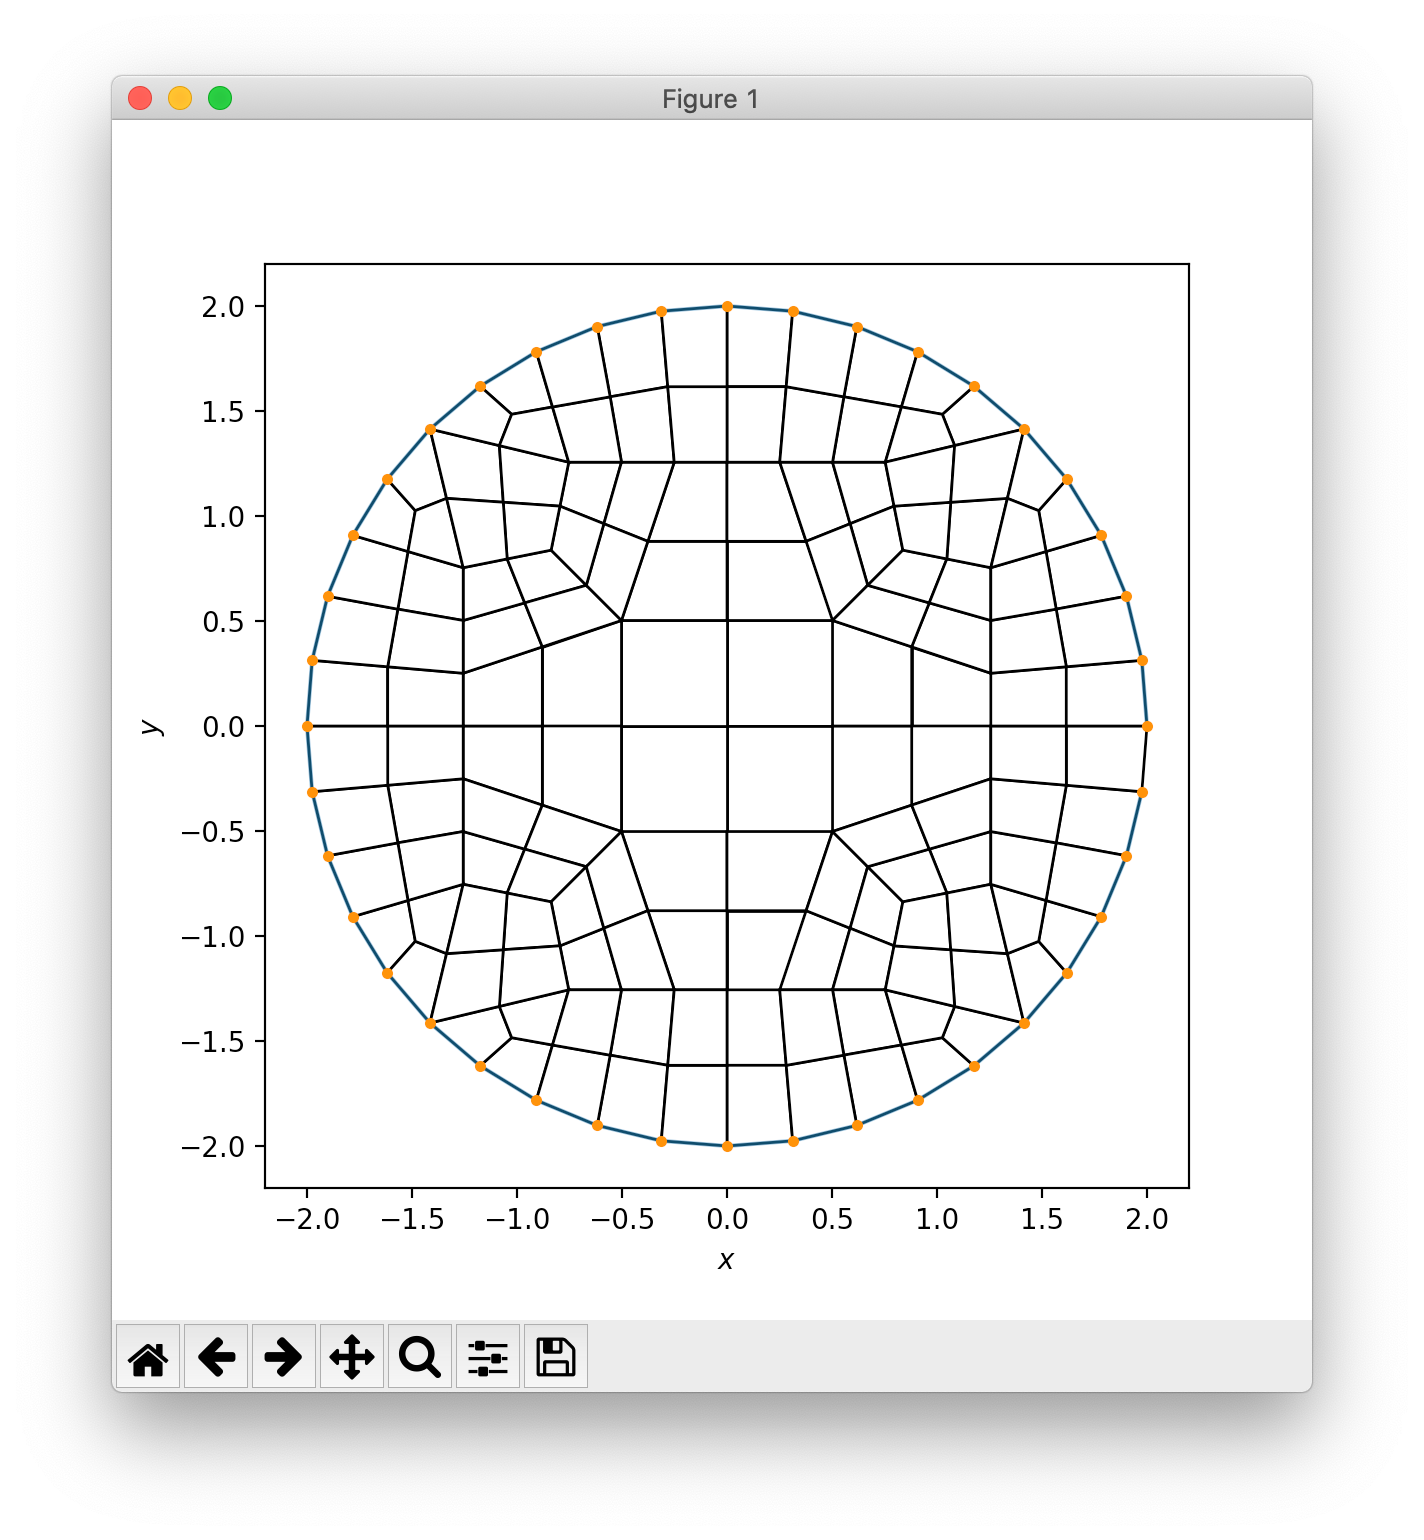
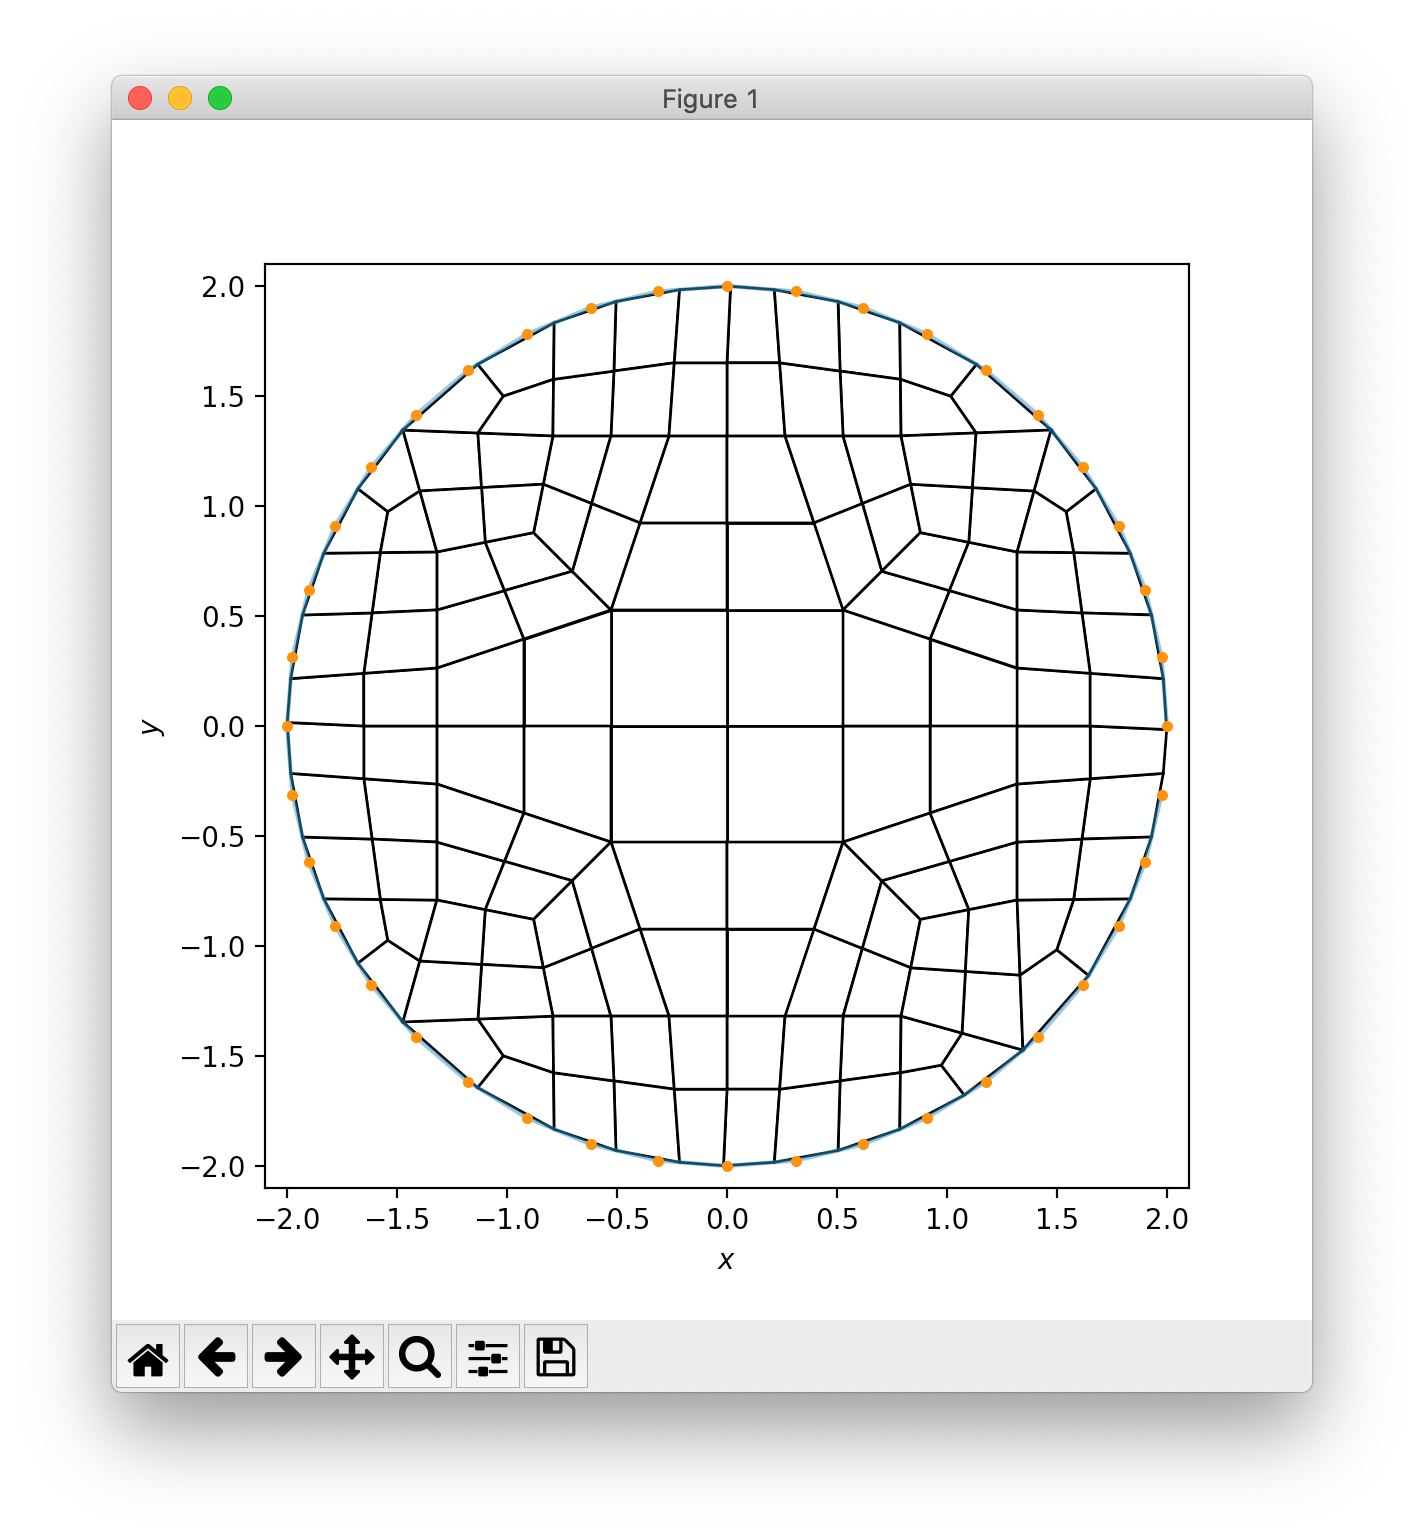
incremental lesson update for 0.0.8 API xybind

diff --git a/geo/doc/dual/lesson_03.py b/geo/doc/dual/lesson_03.py
@@ -1,4 +1,6 @@
 import math
+from pathlib import Path
+
 import matplotlib.pyplot as plt
 
 import xybind as xyb
@@ -16,40 +18,36 @@ def main():
     xs = [radius * math.cos(2.0 * math.pi * t / n_samples) for t in ts]
     ys = [radius * math.sin(2.0 * math.pi * t / n_samples) for t in ts]
 
-    # mesh
-    mesh = xyb.QuadMesh(xs, ys)
-    # deciding this loop is : in
-    # inCurve with 40 points
-    # Determining derivative...
-    # Setting tangent and angle...
-    # Finding corners...
-    # Finding features...
-    # Constructor complete
+    # other user-defined parameters
+    refine = True  # don't refine at the boundary
+    res = 1.0  # the first resolution attempt
+    # res = 0.5  # the second resolution attempt
+    res = 0.25  # the third resolution attempt
+    ll_x, ll_y = -2.1, -2.1  # ll = lower left
+    ur_x, ur_y = 2.1, 2.1  # ur = upper right
+    dev_out = False
+    ofile = Path(__file__).stem  # automatically get the 'lesson_03' string
 
-    # compute mesh
-    mesh.compute(resolution=1)
-    # Computing Mesh
-    # Size of my nodes: 0
-    # Size of my Primal nodes: 73
-    # Size of my Primal Polys: 56
-    # Unique loop size: 41
+    # mesh
+    mesh = xyb.QuadMesh()
+    mesh.initialize(
+        boundary_xs=xs,
+        boundary_ys=ys,
+        boundary_refine=refine,
+        resolution=res,
+        lower_bound_x=ll_x,
+        lower_bound_y=ll_y,
+        upper_bound_x=ur_x,
+        upper_bound_y=ur_y,
+        developer_output=dev_out,
+        output_file=ofile,
+    )
+
+    mesh.compute()
 
     # get the nodes
     nodes = mesh.nodes()
-    # nnp = len(nodes)  # number of nodal points = 161
-
-    # example nodes:
-    # the first node:
-    # > nodes[0]
-    # [1.0, 0.5024999976158142, 0.5024999976158142, 0.0]
-
-    # the second node
-    # > nodes[1]
-    # [2.0, 0.5024999976158142, -0.5024999976158142, 0.0]
-
-    # the last node
-    # > nodes[-1]
-    # [165.0, 1.4841588735580444, 1.0253148078918457, 0.0]
+    # nnp = len(nodes)  # number of nodal points
 
     # create a dictionary lookup table from the index to the nodal (x, y, z)
     # coordinates
@@ -60,23 +58,7 @@ def main():
 
     # get the elements
     elements = mesh.connectivity()
-    # nel = len(elements)  # number of elements = 140
-
-    # work with only three elements for debug purposes
-    # elements = elements[0:3]
-
-    # example elements:
-    # the first element
-    # > elements[0]
-    # [1, 57, 58, 59]
-
-    # the second element
-    # > elements[1]
-    # [57, 2, 60, 58]
-
-    # the last element
-    # > elements[-1]
-    # [165, 164, 24, 161]
+    # nel = len(elements)  # number of elements
 
     # visualization
     s = 6.0  # 6.0 inches
@@ -108,9 +90,14 @@ def main():
     ax.set_xlabel(r"$x$")
     ax.set_ylabel(r"$y$")
 
+    ax.set_xlim([ll_x, ur_x])
+    ax.set_ylim([ll_y, ur_y])
+
     plt.axis("on")
 
     plt.show()
+
+    aa = 4
 
     # TODO: saving the plot, and writing to a .mesh file
 

diff --git a/geo/doc/dual/lesson_02.py b/geo/doc/dual/lesson_02.py
@@ -10,6 +10,8 @@ def main():
     # parameterize the curve
     ts = tuple(range(n_samples))
 
+    # creates ts = (0, 1, 2, 3, 4, 5, 6, 7, 8, 9, 10, 11, 12, 13, 14, 15, 16, 17, 18, 19, 20, 21, 22, 23, 24, 25, 26, 27, 28, 29, 30, 31, 32, 33, 34, 35, 36, 37, 38, 39
+
     # create x and y points
     xs = [radius * math.cos(2.0 * math.pi * t / n_samples) for t in ts]
     ys = [radius * math.sin(2.0 * math.pi * t / n_samples) for t in ts]
@@ -19,8 +21,8 @@ def main():
 
     ax = fig.gca()
 
-    ax.plot(xs, ys, "-", alpha=0.5)
-    ax.plot(xs, ys, ".")
+    ax.plot(xs, ys, "-", alpha=0.5)  # show boundary as a continuous connected line
+    ax.plot(xs, ys, ".")  # show each discrete point that creates the boundary
 
     ax.set_aspect("equal")
     ax.set_xlabel(r"$x$")

diff --git a/geo/doc/dual/lesson_00.md b/geo/doc/dual/lesson_00.md
@@ -18,7 +18,78 @@ Complete the [configuration](../../../config/README.md).  Then, from the command
 > bash style.sh
 ```
 
-If all of the tests pass, then the environment has been configured correctly.
+If all of the tests pass, then the environment has been configured correctly.  Following are details of what to expect:
+
+```bash
+> pytest -v  # will run the tests in a verbose manner and produce output as follows
+===================================== test session starts =====================================
+platform darwin -- Python 3.9.7, pytest-6.2.5, py-1.9.0, pluggy-0.12.0 -- /Users/chovey/opt/miniconda3/envs/siblenv/bin/python
+cachedir: .pytest_cache
+rootdir: /Users/chovey/sibl
+plugins: cov-2.10.1
+collected 214 items
+
+cli/process/tpav/test_three_points_angular_velocity.py::ThreePointsAngularVelocityTest::test_t0 PASSED [  0%]
+cli/process/tpav/test_three_points_angular_velocity.py::ThreePointsAngularVelocityTest::test_t0_insufficient_rank_omega_parallel XFAIL [  0%]
+cli/process/tpav/test_three_points_angular_velocity.py::ThreePointsAngularVelocityTest::test_t0_insufficient_rank_omega_perpendicular XFAIL [  1%]
+cli/process/tpav/test_three_points_angular_velocity.py::ThreePointsAngularVelocityTest::test_t0_t1 PASSED [  1%]
+cli/tests/test_functional_architecture.py::test_Csv PASSED                              [  2%]
+cli/tests/test_functional_architecture.py::test_csv_data PASSED                         [  2%]
+cli/tests/test_functional_architecture.py::test_Figure PASSED                           [  3%]
+cli/tests/calculator/test_calculator.py::MyTestCase::test_add PASSED                    [  3%]
+cli/tests/calculator/test_calculator.py::MyTestCase::test_divide PASSED                 [  4%]
+cli/tests/calculator/test_calculator.py::MyTestCase::test_multiply PASSED               [  4%]
+cli/tests/calculator/test_calculator.py::MyTestCase::test_subtract PASSED               [  5%]
+
+...  # abbreviated
+
+geo/tests/test_xybind.py::test_unit_square_contains PASSED                              [ 98%]
+geo/tests/test_xybind.py::test_unit_squares_inType PASSED                               [ 99%]
+geo/tests/test_xybind.py::test_qt_node_counts PASSED                                    [ 99%]
+geo/tests/test_xybind.py::test_unit_circle_quad_mesh PASSED                             [100%]
+
+========================= 195 passed, 3 skipped, 16 xfailed in 6.14s ==========================
+```
+
+
+```bash
+> ./quality.sh                                        (siblenv)
+===================================== test session starts =====================================
+platform darwin -- Python 3.9.7, pytest-6.2.5, py-1.9.0, pluggy-0.12.0
+rootdir: /Users/chovey/sibl
+plugins: cov-2.10.1
+collected 214 items
+
+cli/process/tpav/test_three_points_angular_velocity.py .xx.                             [  1%]
+cli/tests/test_functional_architecture.py ...                                           [  3%]
+cli/tests/calculator/test_calculator.py ....                                            [  5%]
+cli/tests/correlation/test_correlation.py ..................                            [ 13%]
+cli/tests/differentiation/test_differentiation.py ....                                  [ 15%]
+
+...  # abbreviated
+
+geo/src/ptg/point.py                       23      0   100%
+geo/src/ptg/polygon.py                     34      1    97%   39
+geo/src/ptg/quadtree.py                   212      9    96%   284-288, 702-708, 711-717, 720-726
+geo/src/ptg/reader.py                      44     20    55%   45, 56, 66-71, 79, 96-98, 108-119
+geo/src/ptg/regularize_radial.py            7      0   100%
+geo/src/ptg/view_bernstein_surface.py      89      6    93%   173-178, 206
+geo/src/ptg/view_bezier.py                241     13    95%   524, 529-532, 537-554, 558
+geo/src/ptg/view_bspline.py               321     27    92%   210-211, 479-482, 493-508, 670, 673, 676, 752, 757-765, 770-789, 793
+---------------------------------------------------------------------
+TOTAL                                    1902    198    90%
+
+
+========================= 195 passed, 3 skipped, 16 xfailed in 8.77s ==========================
+```
+
+```bash
+> ./style.sh                                          (siblenv)
+Skipping .ipynb files as Jupyter dependencies are not installed.
+You can fix this by running ``pip install black[jupyter]``
+All done! ✨ 🍰 ✨
+118 files would be left unchanged.
+```
 
 [Index](README.md)
 

diff --git a/geo/doc/dual/lesson_01.md b/geo/doc/dual/lesson_01.md
@@ -29,6 +29,8 @@ radius = 2.0
 # parameterize the curve
 ts = tuple(range(n_samples))
 
+# creates ts = (0, 1, 2, 3, 4, 5, 6, 7, 8, 9, 10, 11, 12, 13, 14, 15, 16, 17, 18, 19, 20, 21, 22, 23, 24, 25, 26, 27, 28, 29, 30, 31, 32, 33, 34, 35, 36, 37, 38, 39)
+
 # create x and y points
 xs = [radius * math.cos(2.0 * math.pi * t / n_samples) for t in ts]
 ys = [radius * math.sin(2.0 * math.pi * t / n_samples) for t in ts]
@@ -38,8 +40,8 @@ fig = plt.figure(figsize=(s, s))
 
 ax = fig.gca()
 
-ax.plot(xs, ys, "-", alpha=0.5)
-ax.plot(xs, ys, ".")
+ax.plot(xs, ys, "-", alpha=0.5)  # show boundary as a continuous connected line
+ax.plot(xs, ys, ".")  # show each discrete point that creates the boundary
 
 ax.set_aspect("equal")
 ax.set_xlabel(r"$x$")

diff --git a/geo/doc/dual/lesson_03.md b/geo/doc/dual/lesson_03.md
@@ -20,7 +20,16 @@ The same boundary from the previous lessons should appear, but now with a 2D qua
 
 ![circle_boundary_mesh](fig/circle_boundary_mesh.png)
 
-Review [`lesson_03.py`](lesson_03.py) and modify as necessary.
+Review [`lesson_03.py`](lesson_03.py) and modify as necessary, such as changing the `resolution` parameter by uncommenting lines for `res` to get refined variations:
+
+```python
+res = 1.0  # the first resolution attempt
+# res = 0.5  # the second resolution attempt
+# res = 0.2  # the third resolution attemp
+```
+
+![circle_boundary_mesh_res_0p5](fig/circle_boundary_mesh_res_0p5.png)
+![circle_boundary_mesh_res_0p25](fig/circle_boundary_mesh_res_0p25.png)
 
 [Index](README.md)
 
